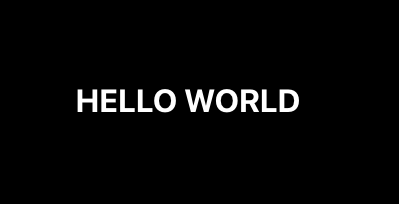
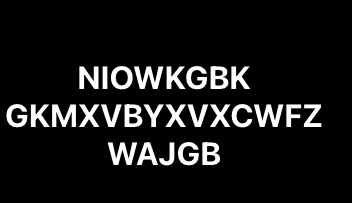
Append new props   autoStart?: boolean; // default value is false   startAfterTimer?: number; // default value is false   startOnHover?: boolean; // default value is false

Changed region(s): [[0.0, 0.3251, 0.9375, 0.6502], [0.2812, 0.6798, 0.625, 0.8276]]

diff --git a/lib/index.js b/lib/index.js
@@ -13,38 +13,58 @@ var __assign = (this && this.__assign) || function () {
 Object.defineProperty(exports, "__esModule", { value: true });
 var jsx_runtime_1 = require("react/jsx-runtime");
 var react_1 = require("react");
-var TextHackedEffectComponentIteration = 0;
 var TextHackedEffectComponent = function (_a) {
-    var defaultText = _a.defaultText, _b = _a.timeOut, timeOut = _b === void 0 ? 50 : _b;
+    var defaultText = _a.defaultText, _b = _a.timeOut, timeOut = _b === void 0 ? 50 : _b, _c = _a.startOnHover, startOnHover = _c === void 0 ? false : _c, _d = _a.autoStart, autoStart = _d === void 0 ? false : _d, startAfterTimer = _a.startAfterTimer;
     var letters = (0, react_1.useMemo)(function () { return 'ABCDEFGHIJKLMNOPQRSTUVWXYZ'; }, []);
-    var _c = (0, react_1.useState)(defaultText), text = _c[0], setText = _c[1];
-    (0, react_1.useEffect)(function () {
-        TextHackedEffectComponentIteration += 1 / 3;
-        if (TextHackedEffectComponentIteration === text.length) {
-            TextHackedEffectComponentIteration = 0;
+    var _e = (0, react_1.useState)(0), _ = _e[0], setTextHackedEffectComponentIteration = _e[1];
+    var _f = (0, react_1.useState)(''), text = _f[0], setText = _f[1];
+    var _g = (0, react_1.useState)(autoStart), start = _g[0], setStart = _g[1];
+    var generateRandomText = (0, react_1.useCallback)(function (size) {
+        var alphabet = 'abcdefghijklmnopqrstuvwxyzABCDEFGHIJKLMNOPQRSTUVWXYZ';
+        var randomText = '';
+        for (var i = 0; i < size; i++) {
+            var randomIndex = Math.floor(Math.random() * alphabet.length);
+            randomText += alphabet[randomIndex];
         }
-        setTimeout(function () {
-            if (TextHackedEffectComponentIteration >= text.length - 1) {
-                TextHackedEffectComponentIteration = text.length;
-                setText(defaultText);
-                return;
-            }
-            var futurText = text
-                .split('')
-                .map(function (_letter, index) {
-                if (index < TextHackedEffectComponentIteration) {
-                    return text[index];
-                }
-                return letters[Math.floor(Math.random() * 26)];
-            })
-                .join('');
-            setText(futurText);
-        }, timeOut);
-    }, [text]);
+        return randomText;
+    }, []);
     (0, react_1.useEffect)(function () {
-        TextHackedEffectComponentIteration = 0;
-        setText(defaultText);
+        if (!start)
+            return;
+        setTextHackedEffectComponentIteration(function (TextHackedEffectComponentIteration) {
+            TextHackedEffectComponentIteration += 1 / 3;
+            setTimeout(function () {
+                if (TextHackedEffectComponentIteration >= text.length - 1) {
+                    TextHackedEffectComponentIteration = text.length;
+                    setText(defaultText);
+                    return;
+                }
+                var futurText = text
+                    .split('')
+                    .map(function (_letter, index) {
+                    if (index < TextHackedEffectComponentIteration) {
+                        return text[index];
+                    }
+                    return letters[Math.floor(Math.random() * 26)];
+                })
+                    .join('');
+                setText(futurText);
+            }, timeOut);
+            return TextHackedEffectComponentIteration;
+        });
+    }, [text, start]);
+    (0, react_1.useEffect)(function () {
+        setTextHackedEffectComponentIteration(0);
+        setText(generateRandomText(defaultText.length));
     }, [defaultText]);
+    (0, react_1.useEffect)(function () {
+        if (!autoStart && !startOnHover && startAfterTimer) {
+            setTimeout(function () { return setStart(true); }, startAfterTimer);
+        }
+    }, [autoStart, startOnHover, startAfterTimer]);
+    if (!start) {
+        return ((0, jsx_runtime_1.jsx)("span", __assign({ style: { textTransform: 'uppercase' }, onMouseEnter: function () { return startOnHover && setStart(true); }, onTouchStart: function () { return startOnHover && setStart(true); } }, { children: defaultText })));
+    }
     return (0, jsx_runtime_1.jsx)("span", __assign({ style: { textTransform: 'uppercase' } }, { children: text }));
 };
 exports.default = TextHackedEffectComponent;

diff --git a/src/index.tsx b/src/index.tsx
@@ -1,42 +1,86 @@
-import { useEffect, useMemo, useState } from 'react';
+import { useCallback, useEffect, useMemo, useState } from 'react';
 
-let TextHackedEffectComponentIteration = 0;
+// let TextHackedEffectComponentIteration = 0;
 type TextHackedEffectComponentProps = {
   defaultText: string;
   timeOut?: number;
+  autoStart?: boolean;
+  startOnHover?: boolean;
+  startAfterTimer?: number;
 };
-const TextHackedEffectComponent: React.FC<TextHackedEffectComponentProps> = ({ defaultText, timeOut = 50 }) => {
+const TextHackedEffectComponent: React.FC<TextHackedEffectComponentProps> = ({
+  defaultText,
+  timeOut = 50,
+  startOnHover = false,
+  autoStart = false,
+  startAfterTimer,
+}) => {
   const letters = useMemo(() => 'ABCDEFGHIJKLMNOPQRSTUVWXYZ', []);
-  const [text, setText] = useState<string>(defaultText);
-  useEffect(() => {
-    TextHackedEffectComponentIteration += 1 / 3;
-    if (TextHackedEffectComponentIteration === text.length) {
-      TextHackedEffectComponentIteration = 0;
+  const [_, setTextHackedEffectComponentIteration] = useState<number>(0);
+  const [text, setText] = useState<string>('');
+  const [start, setStart] = useState<boolean>(autoStart);
+
+  const generateRandomText = useCallback((size: number) => {
+    const alphabet = 'abcdefghijklmnopqrstuvwxyzABCDEFGHIJKLMNOPQRSTUVWXYZ';
+    let randomText = '';
+
+    for (let i = 0; i < size; i++) {
+      const randomIndex = Math.floor(Math.random() * alphabet.length);
+      randomText += alphabet[randomIndex];
     }
-    setTimeout(() => {
-      if (TextHackedEffectComponentIteration >= text.length - 1) {
-        TextHackedEffectComponentIteration = text.length;
-        setText(defaultText);
-        return;
-      }
-      const futurText = text
-        .split('')
-        .map((_letter, index) => {
-          if (index < TextHackedEffectComponentIteration) {
-            return text[index];
-          }
 
-          return letters[Math.floor(Math.random() * 26)];
-        })
-        .join('');
-      setText(futurText);
-    }, timeOut);
-  }, [text]);
+    return randomText;
+  }, []);
 
   useEffect(() => {
-    TextHackedEffectComponentIteration = 0;
-    setText(defaultText);
+    if (!start) return;
+    setTextHackedEffectComponentIteration((TextHackedEffectComponentIteration) => {
+      TextHackedEffectComponentIteration += 1 / 3;
+
+      setTimeout(() => {
+        if (TextHackedEffectComponentIteration >= text.length - 1) {
+          TextHackedEffectComponentIteration = text.length;
+          setText(defaultText);
+          return;
+        }
+        const futurText = text
+          .split('')
+          .map((_letter, index) => {
+            if (index < TextHackedEffectComponentIteration) {
+              return text[index];
+            }
+
+            return letters[Math.floor(Math.random() * 26)];
+          })
+          .join('');
+        setText(futurText);
+      }, timeOut);
+      return TextHackedEffectComponentIteration;
+    });
+  }, [text, start]);
+
+  useEffect(() => {
+    setTextHackedEffectComponentIteration(0);
+    setText(generateRandomText(defaultText.length));
   }, [defaultText]);
+
+  useEffect(() => {
+    if (!autoStart && !startOnHover && startAfterTimer) {
+      setTimeout(() => setStart(true), startAfterTimer);
+    }
+  }, [autoStart, startOnHover, startAfterTimer]);
+
+  if (!start) {
+    return (
+      <span
+        style={{ textTransform: 'uppercase' }}
+        onMouseEnter={() => startOnHover && setStart(true)}
+        onTouchStart={() => startOnHover && setStart(true)}
+      >
+        {defaultText}
+      </span>
+    );
+  }
 
   return <span style={{ textTransform: 'uppercase' }}>{text}</span>;
 };

diff --git a/example/src/App.tsx b/example/src/App.tsx
@@ -8,14 +8,22 @@ function App() {
   useEffect(() => {
     setTimeout(() => {
       setText('Ipsum');
-    }, 4000);
+    }, 2000);
     setTimeout(() => {
       setText('dolor sit amet');
-    }, 7000);
+    }, 4000);
   }, []);
   return (
     <div className="App">
-      <TextHackedEffectComponent defaultText={text} />
+      <div>
+        <TextHackedEffectComponent defaultText={'Hover me'} startOnHover />
+      </div>
+      <div>
+        <TextHackedEffectComponent defaultText={'Start after 2s'} startAfterTimer={2000} />
+      </div>
+      <div>
+        <TextHackedEffectComponent defaultText={text} autoStart />
+      </div>
     </div>
   );
 }

diff --git a/lib/index.d.ts b/lib/index.d.ts
@@ -2,6 +2,9 @@
 type TextHackedEffectComponentProps = {
     defaultText: string;
     timeOut?: number;
+    autoStart?: boolean;
+    startOnHover?: boolean;
+    startAfterTimer?: number;
 };
 declare const TextHackedEffectComponent: React.FC<TextHackedEffectComponentProps>;
 export default TextHackedEffectComponent;

diff --git a/example/src/App.css b/example/src/App.css
@@ -5,6 +5,7 @@
  display: flex;
  justify-content: center;
  align-items: center;
+ flex-direction: column;
 }
 
 span{

diff --git a/README.md b/README.md
@@ -18,7 +18,10 @@ npm i react-text-hacked
 /// <reference types="react" />
 type TextHackedEffectComponentProps = {
   defaultText: string;
-  timeOut?: number;
+  timeOut?: number; // default value is 50
+  autoStart?: boolean; // default value is false
+  startOnHover?: boolean; // default value is false
+  startAfterTimer?: number; // default value is false
 };
 declare const TextHackedEffectComponent: React.FC<TextHackedEffectComponentProps>;
 export default TextHackedEffectComponent;
@@ -27,13 +30,32 @@ export default TextHackedEffectComponent;
 ### Usages
 
 ```typescript
+import { useEffect, useState } from 'react';
 import './App.css';
 import TextHackedEffectComponent from 'react-text-hacked';
 
 function App() {
+  const [text, setText] = useState<string>('Lorem');
+
+  useEffect(() => {
+    setTimeout(() => {
+      setText('Ipsum');
+    }, 2000);
+    setTimeout(() => {
+      setText('dolor sit amet');
+    }, 4000);
+  }, []);
   return (
     <div className="App">
-      <TextHackedEffectComponent defaultText="Hello world" />
+      <div>
+        <TextHackedEffectComponent defaultText={'Hover me'} startOnHover />
+      </div>
+      <div>
+        <TextHackedEffectComponent defaultText={'Start after 2s'} startAfterTimer={2000} />
+      </div>
+      <div>
+        <TextHackedEffectComponent defaultText={text} autoStart />
+      </div>
     </div>
   );
 }
